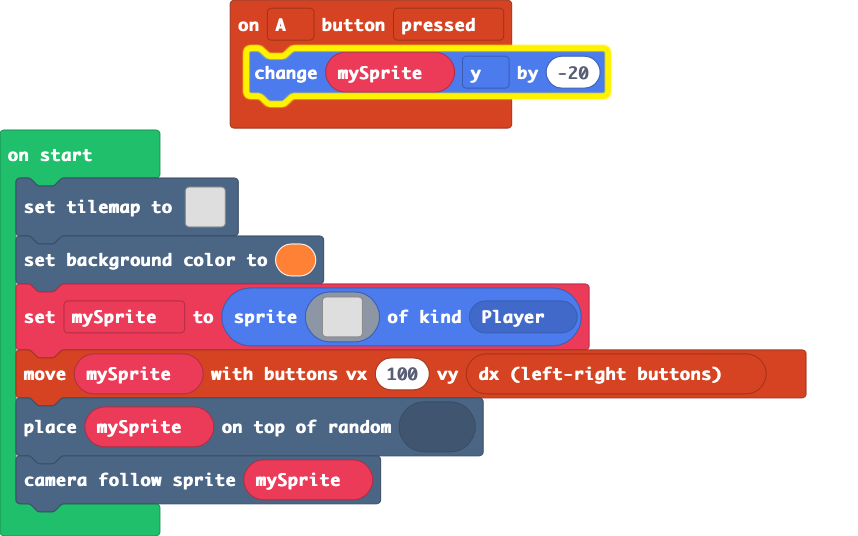
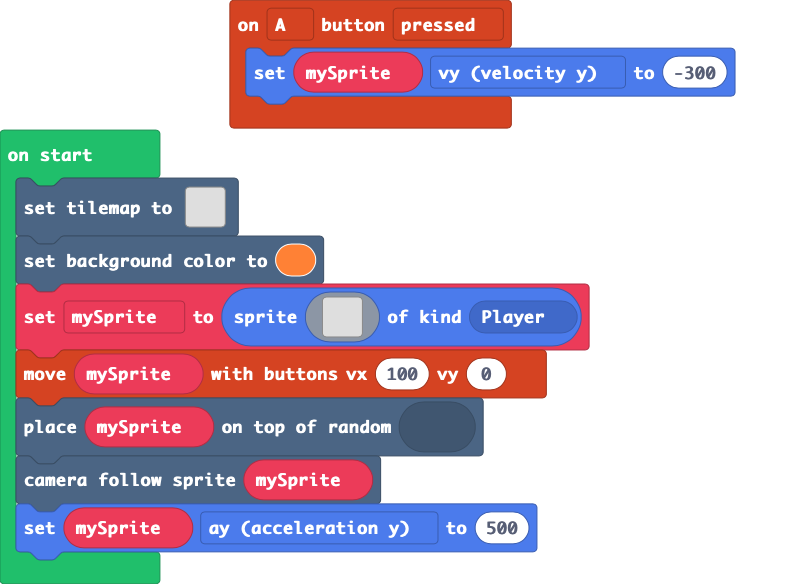
Update main.blocks, main.ts

diff --git a/main.ts b/main.ts
@@ -1,5 +1,5 @@
 controller.A.onEvent(ControllerButtonEvent.Pressed, function () {
-    mySprite.y += -20
+    mySprite.vy = -300
 })
 let mySprite: Sprite = null
 tiles.setTilemap(tilemap`level1`)
@@ -22,6 +22,7 @@ mySprite = sprites.create(img`
     . . . . . f f f f f f . . . . . 
     . . . . . f f . . f f . . . . . 
     `, SpriteKind.Player)
-controller.moveSprite(mySprite, 100, controller.dx())
+controller.moveSprite(mySprite, 100, 0)
 tiles.placeOnRandomTile(mySprite, sprites.castle.tilePath5)
 scene.cameraFollowSprite(mySprite)
+mySprite.ay = 500
